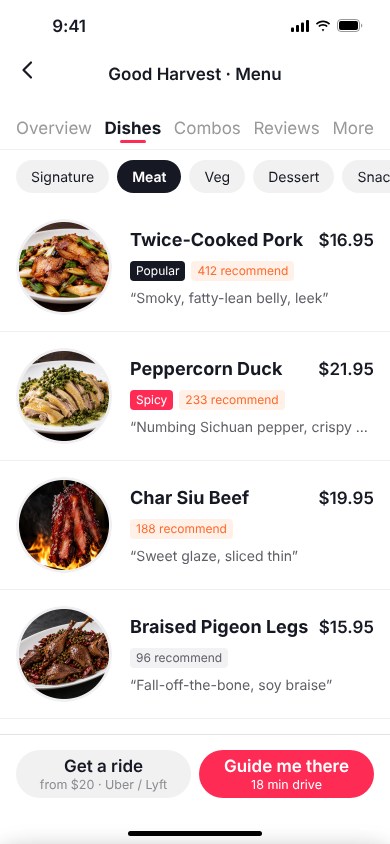
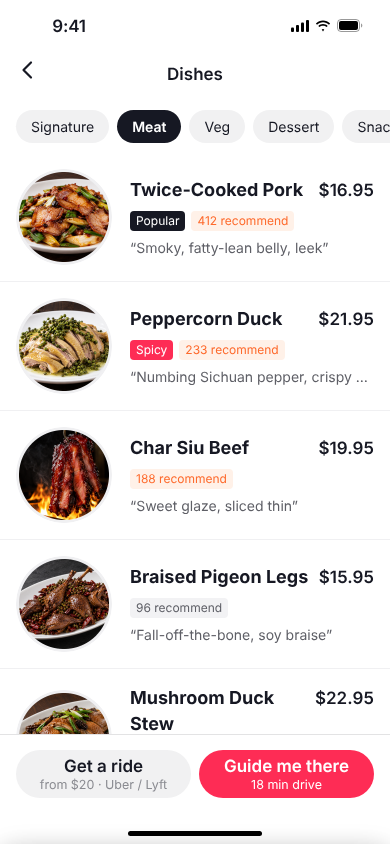
Menu page: drop main section tabs, header is back + 'Dishes' (Figma 6b update)
Claude-Session: https://claude.ai/code/session_01Q6z36aYFBjH3xCc6Ygpjkp

diff --git a/index.html b/index.html
@@ -130,7 +130,7 @@
     </div>
   </section>
 
-<section class="screen" id="menu"><header class="menu-header"><button data-act="pop" aria-label="Back"><span class="ic" data-i="back"></span></button><b>Good Harvest · Menu</b></header><div class="menu-scroll"><div class="menu-sticky"><nav class="menu-tabs"><button data-page-tab="overview">Overview</button><button class="on" data-page-tab="dishes">Dishes</button><button data-page-tab="combos">Combos</button><button data-page-tab="reviews">Reviews</button><button data-page-tab="more">More</button></nav><nav class="category-chips" aria-label="Menu categories"></nav></div><div id="menuList"></div></div><div class="action-bar light"><button class="btn2" data-act="ride"><b>Get a ride</b><span>from $20 · Uber / Lyft</span></button><button class="btn1" data-act="dir"><b>Guide me there</b><span>18 min drive</span></button></div></section>
+<section class="screen" id="menu"><header class="menu-header"><button data-act="pop" aria-label="Back"><span class="ic" data-i="back"></span></button><b>Dishes</b></header><div class="menu-scroll"><div class="menu-sticky"><nav class="category-chips" aria-label="Menu categories"></nav></div><div id="menuList"></div></div><div class="action-bar light"><button class="btn2" data-act="ride"><b>Get a ride</b><span>from $20 · Uber / Lyft</span></button><button class="btn1" data-act="dir"><b>Guide me there</b><span>18 min drive</span></button></div></section>
 <section class="screen" id="guide"><div class="guide-scroll"><img class="guide-hero" src="img/figma/ec583.png" alt="Good Harvest storefront"><div class="guide-nav"><button class="circ" data-act="pop" aria-label="Back"><span class="ic" data-i="back"></span></button><button class="circ" data-act="demo" aria-label="Share"><span class="ic" data-i="share"></span></button></div><article class="guide-content"><h1>Good Harvest</h1><button class="guide-address" data-act="dir">5150 Buford Hwy NE C-120, Doraville, GA 30340<span class="ic" data-i="pin"></span></button><nav class="guide-tabs"><button class="on" data-act="restaurant">Restaurant</button><button data-act="demo">Visitors</button><button data-act="demo">Report</button></nav><ol class="guide-steps"><li><span>1</span><p>Take Exit 32 (Chamblee Tucker Rd) off I-285, head toward Buford Hwy</p><img src="img/figma/278a5.png" alt="Exit 32"></li><li><span>2</span><p>Turn into the Asian Square plaza — look for the tall pylon sign on Buford Hwy</p><img src="img/figma/34341.png" alt="Asian Square plaza sign"></li><li><span>3</span><p>Good Harvest is at the far end, suite C-120, under the blue tile roof</p><img src="img/figma/ec583.png" alt="Good Harvest entrance"></li></ol></article></div></section>
   <!-- ============ Hand-off sheets ============ -->
   <div id="dim" data-act="closeSheet"></div>

diff --git a/app.js b/app.js
@@ -642,7 +642,7 @@
     $('#menuList').animate([{opacity:0},{opacity:1}],{duration:D(180)});
   }
   $('.category-chips').addEventListener('click',e=>{const b=e.target.closest('[data-category]');if(!b)return;category=b.dataset.category;renderCategory();$('.menu-scroll').scrollTop=0;$(`[data-category="${category}"]`).scrollIntoView({block:'nearest',inline:'nearest',behavior:reduce?'auto':'smooth'});});
-  $('.menu-tabs').addEventListener('click',e=>{const b=e.target.closest('[data-page-tab]');if(b)navigateTab(b.dataset.pageTab);});
+  // main section tabs removed from the menu page (Figma 6b): header shows back + 'Dishes' only
   $('.menu-scroll').addEventListener('scroll',()=>$('.menu-sticky').classList.toggle('scrolled',$('.menu-scroll').scrollTop>0),{passive:true});
   const NEARBY=[['Masterpiece','Sichuan · Duluth · $$','4.6 (812)','6.2 mi','Also does dry pot','f4a8d.png'],["Gu’s Kitchen",'Sichuan · Chamblee · $$','4.4 (355)','2.3 mi','Closer · open now','a7c8c.png'],['Chong Qing Hot Pot','Hot pot · Duluth · $$$','4.5 (240)','7.8 mi','Group-friendly','09f0c.png'],['Tasty China II','Sichuan · Norcross · $$','4.3 (510)','8.9 mi','Famous for whole fish','984b6.png'],['Northern China Eatery','Dongbei · Doraville · $','4.5 (1200)','0.4 mi','Walkable · dumplings','09bf9.png'],['Bo Bo Garden','Cantonese · Doraville · $$','4.4 (430)','0.9 mi','Late night','f0bfd.png']];
   let nearbyCount=0,loading=false;
